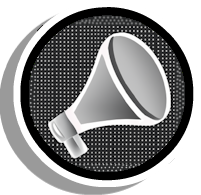
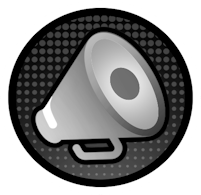
v1.6.0

diff --git a/about.md b/about.md
@@ -86,15 +86,13 @@ Open the mod settings to change the click sound. Set the click sound to '0' to u
 
 ## Credit
 Thank you so much to all of the people listed below for doing whatever they did to help create the mod!
-- [Beat](user:13873867) - This is me! I made the mod.
-- [Viper](user:14284530) - Developer, helped me with android support :3
-- [Coop](user:21207551) - Developer, helped make coding the mod more efficient ^w^
+- [Beat](https://github.com/BeatACVR) - This is me! I made the mod.
+- [Viper](https://github.com/MuhXd) - Developer, helped me with android support :3
+- [Coop](https://github.com/coopeeo) - Developer, helped make coding the mod more efficient ^w^
+- [Firee](https://github.com/FireMario211) - Added mac support, thank you so much!
 - [Weebify](https://github.com/Weebifying) - Developer :3
-- [Uproxide](user:25397826) - Developer, helped with the developer badge system! OwO
-- [Firee](user:6253758) - Added mac support, thank you so much! GDUtils Notification Test Button
-- [Jouca](user:7026949) - GDUtils Notification Test Button
-- Sicariusblack - Helps with making some click sounds sound good!
+- [Uproxide](https://github.com/uproxide) - Developer, helped with the developer badge system! OwO
+- [Jouca](https://github.com/Jouca) - Helped with the preview button
+- Rue - Made the icon of v1.6.0 >w<
 - aceofspadesss - Provided a ton of unique click sounds for the mod! >w<
-- kittykatspaugh - Emotional support
-- kuipurr - Emotional support
 (If you think I forgot to credit you, DM @beat___ on Discord. Credit is not given for asking a sound or feature request.)

diff --git a/README.md b/README.md
@@ -89,12 +89,10 @@ Thank you so much to all of the people listed below for doing whatever they did 
 - [Beat](https://github.com/BeatACVR) - This is me! I made the mod.
 - [Viper](https://github.com/MuhXd) - Developer, helped me with android support :3
 - [Coop](https://github.com/coopeeo) - Developer, helped make coding the mod more efficient ^w^
+- [Firee](https://github.com/FireMario211) - Added mac support, thank you so much!
 - [Weebify](https://github.com/Weebifying) - Developer :3
 - [Uproxide](https://github.com/uproxide) - Developer, helped with the developer badge system! OwO
-- [Firee](https://github.com/FireMario211) - Added mac support, thank you so much! GDUtils Notification Test Button
-- [Jouca](https://github.com/Jouca) - GDUtils Notification Test Button
-- Sicariusblack - Helps with making some click sounds sound good!
+- [Jouca](https://github.com/Jouca) - Helped with the preview button
+- Rue - Made the icon of v1.6.0 >w<
 - aceofspadesss - Provided a ton of unique click sounds for the mod! >w<
-- kittykatspaugh - Emotional support
-- kuipurr - Emotional support
 (If you think I forgot to credit you, DM @beat___ on Discord. Credit is not given for asking a sound or feature request.)

diff --git a/changelog.md b/changelog.md
@@ -1,4 +1,6 @@
 # Changelog
+## Version v1.6.0
+* A new logo has been added! (ty rue!)
 ## Version v1.5.3
 * 'Sayo Device' useful randomized click/release sound added! (ty slxyer!)
 * Sayo Device includes 8 clicks and 8 releases (tats alot!! >w<)
